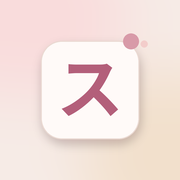
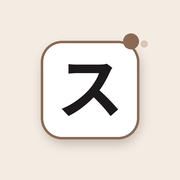
背景を薄いベージュに、ボタンと囲みをブラウンの縁取り・白地に黒文字に変更
Claude-Session: https://claude.ai/code/session_015xz3NFBYzEHUfG86rwAiCa

Changed region(s): [[0.2222, 0.1667, 0.8333, 0.7778], [0.3333, 0.3333, 0.6667, 0.6389]]

diff --git a/index.html b/index.html
@@ -1,5 +1,5 @@
 <!doctype html><html lang="ja"><head><meta charset="utf-8"><meta name="viewport" content="width=device-width,initial-scale=1,viewport-fit=cover">
-<meta name="robots" content="noindex,nofollow"><meta name="theme-color" content="#f6ebe6">
+<meta name="robots" content="noindex,nofollow"><meta name="theme-color" content="#f7f2eb">
 <link rel="manifest" href="./site.webmanifest"><link rel="icon" href="./favicon.png" type="image/png"><link rel="apple-touch-icon" href="./apple-touch-icon.png">
 <meta name="apple-mobile-web-app-capable" content="yes"><meta name="mobile-web-app-capable" content="yes"><meta name="apple-mobile-web-app-title" content="申請キット">
 </head><body><title>スタンプ申請キット</title>
@@ -21,11 +21,12 @@ https://github.com/nodeca/pako/blob/main/LICENSE
 <style>
 /* Layout: one-column wizard — step rail on top, sticky tally, one working area per step, fixed bottom action bar */
 :root{
-  /* soft pink-beige, warm whites, dusty-rose accents; text stays near-black */
-  --bg:#f6ebe6; --surface:#fffaf8; --sunk:#f8efea; --ink:#1d1a1c; --muted:#7a6a6e; --line:#ead9d2;
-  --accent:#b35f7a; --accent-ink:#ffffff; --hi:#f3cdcb; --hi-ink:#1d1a1c; --ok:#4c8a6e; --warn:#a46f27; --bad:#c43f4e;
-  --rose:#d89aa8; --blush:#fbe4e4; --sand:#f3e3d3;
-  --chk1:#ffffff; --chk2:#eee3df; --talk:#a9b9c9;
+  /* light beige base; buttons and frames outlined in brown; white inside with black text */
+  --bg:#f7f2eb; --surface:#ffffff; --sunk:#fbf8f4; --ink:#1d1a1c; --muted:#76695f; --line:#e5d9cc;
+  --brown:#8a6a55; --brown-soft:#d8c6b5; --beige:#f1e7dc;
+  --accent:#8a6a55; --accent-ink:#ffffff; --hi:#eadbc9; --hi-ink:#1d1a1c; --ok:#4c8a6e; --warn:#a46f27; --bad:#c43f4e;
+  --rose:#c9ab93; --blush:#f4ebe1; --sand:#efe4d6;
+  --chk1:#ffffff; --chk2:#ece6df; --talk:#a9b9c9;
   --f-display:"Zen Maru Gothic","Zen Kaku Gothic New",system-ui,sans-serif;
   --f-body:"Zen Kaku Gothic New","Hiragino Sans","Noto Sans JP",system-ui,sans-serif;
   --f-mono:"IBM Plex Mono",ui-monospace,Menlo,monospace;
@@ -245,28 +246,37 @@ button,select,input{font:inherit;color:inherit}
 @media (max-width:560px){ .top h1{font-size:22px} .ph h2{font-size:18px} .bar .btn{min-width:0;flex:1} .bar .msg{display:none} .cands{grid-template-columns:repeat(auto-fill,minmax(96px,1fr))} }
 @media (prefers-reduced-motion:reduce){*{transition:none!important}}
 
-/* ---- pink-beige theme details ---- */
+/* ---- beige theme: brown outlines, white insides ---- */
+html{background:var(--bg)!important;background-image:none!important}
 .top{padding-block:26px 14px}
 .top h1{font-size:27px;letter-spacing:.06em;display:flex;align-items:center;gap:10px}
-.top h1::before{content:"";width:12px;height:12px;border-radius:50%;background:linear-gradient(135deg,var(--rose),#e9b9a6);box-shadow:16px 0 0 -3px var(--hi)}
-.top h1::before{margin-right:10px}
-.panel{border-radius:20px;border-color:var(--line);box-shadow:0 10px 30px -18px rgba(150,96,104,.35)}
-.btn{border-radius:999px}
-.btn.primary{box-shadow:0 6px 16px -8px rgba(179,95,122,.7)}
-.tally{background:#2b2326;color:#fbf1ee;box-shadow:0 12px 26px -14px rgba(60,30,40,.55)}
+.top h1::before{content:"";width:12px;height:12px;border-radius:50%;background:var(--brown);box-shadow:16px 0 0 -3px var(--brown-soft);margin-right:10px}
+.panel{background:#fff;border:1.5px solid var(--brown);border-radius:20px;box-shadow:0 10px 26px -20px rgba(90,60,40,.45)}
+.btn,.btn.ghost,.btn.primary,.btn.hi,.drop .btn{background:#fff;color:var(--ink);border:1.5px solid var(--brown);border-radius:999px;box-shadow:none}
+.btn.primary,.btn.hi{border-width:2px;font-weight:700}
+.btn.danger,.btn.ghost.danger{color:var(--bad)}
+.btn:hover:not(:disabled){background:var(--beige)}
+.btn:disabled{opacity:.45}
+.rail button{border:1.5px solid var(--brown-soft);border-radius:999px;background:#fff}
+.rail button[aria-current="step"]{background:#fff;border:2px solid var(--brown);color:var(--ink)}
+.rail button[aria-current="step"] i{background:var(--brown);color:#fff;border-color:var(--brown)}
+.tally{background:#3a2d26;color:#fbf6f0;box-shadow:0 12px 26px -16px rgba(60,40,25,.6)}
 .tally .need .n{color:var(--hi-ink)}
-.rail button{border-radius:999px;background:color-mix(in srgb,var(--surface) 85%,transparent)}
-.rail button[aria-current="step"]{background:#2b2326;border-color:#2b2326;color:#fbf1ee}
 .count b,.need .n,.chips button,.stepper input,.rail button i{font-weight:700}
 .kind-card,.cand,.titem,.out{border-radius:16px}
-.kind-card[aria-pressed="true"]{background:var(--blush)}
-.chips button[aria-pressed="true"]{background:#2b2326;border-color:#2b2326;color:#fbf1ee}
-.seg button[aria-pressed="true"]{background:#2b2326;border-color:#2b2326;color:#fbf1ee}
-.bar{background:color-mix(in srgb,var(--surface) 88%,transparent)}
-#extra:not(:empty){background:linear-gradient(135deg,var(--blush),var(--sand));border:1px solid var(--line);border-radius:18px;padding:14px 16px}
-.resume,.ask{border-radius:16px}
-.toast{background:#2b2326;color:#fbf1ee;border-radius:999px}
-.drop{border-radius:18px}
+.kind-card{background:#fff;border:1.5px solid var(--brown-soft)}
+.kind-card[aria-pressed="true"]{background:#fff;border-color:var(--brown);box-shadow:0 0 0 2px var(--brown)}
+.chips button{background:#fff;border:1.5px solid var(--brown-soft)}
+.chips button[aria-pressed="true"]{background:var(--beige);border:2px solid var(--brown);color:var(--ink)}
+.chips button[aria-pressed="true"] small{color:var(--muted);opacity:1}
+.seg button{background:#fff;border:1.5px solid var(--brown-soft);color:var(--ink)}
+.seg button[aria-pressed="true"]{background:var(--beige);border:2px solid var(--brown);color:var(--ink)}
+.bar{background:color-mix(in srgb,#fff 92%,transparent);border-top:1.5px solid var(--brown-soft)}
+#extra:not(:empty){background:#fff;border:1.5px solid var(--brown);border-radius:18px;padding:14px 16px}
+.resume,.ask,.okbox{border-radius:16px}
+.ask{background:#fff;border:1.5px solid var(--brown)}
+.toast{background:#3a2d26;color:#fbf6f0;border-radius:999px}
+.drop{border-radius:18px;border-color:var(--brown-soft);background:var(--sunk)}
 </style>
 
 <div class="wrap">
